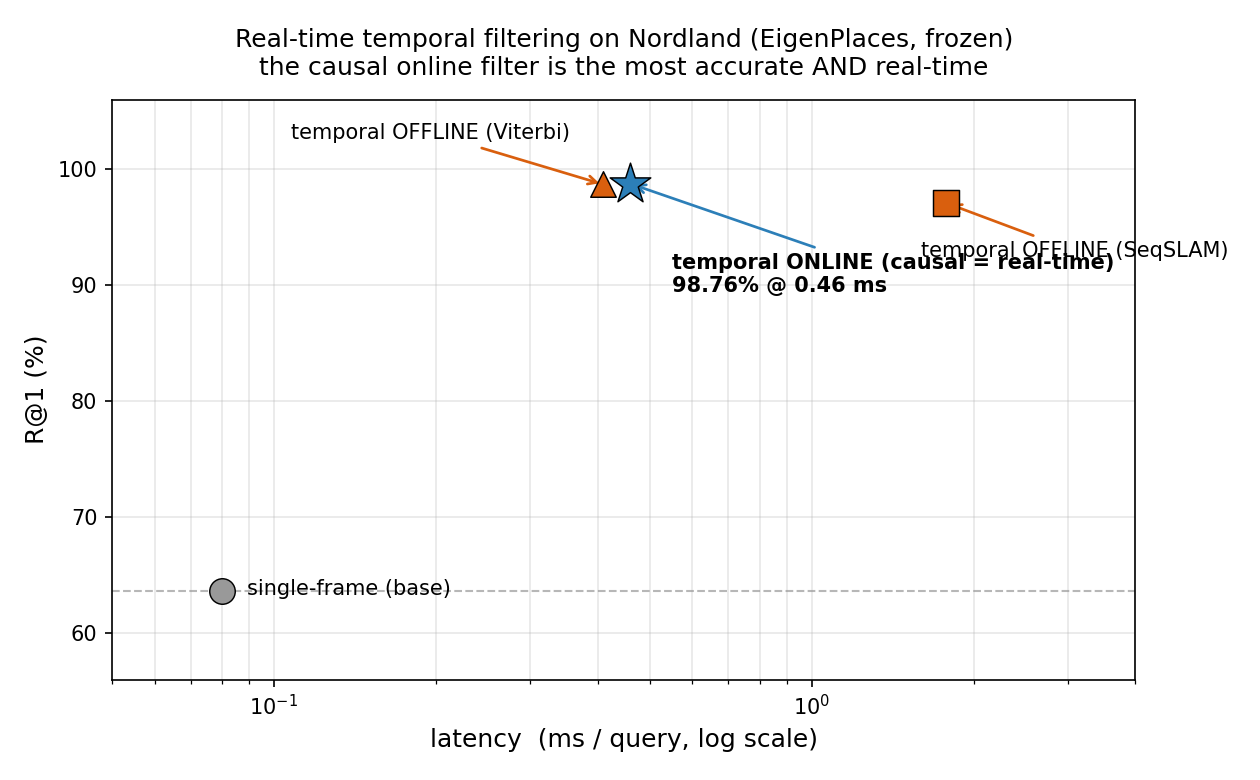
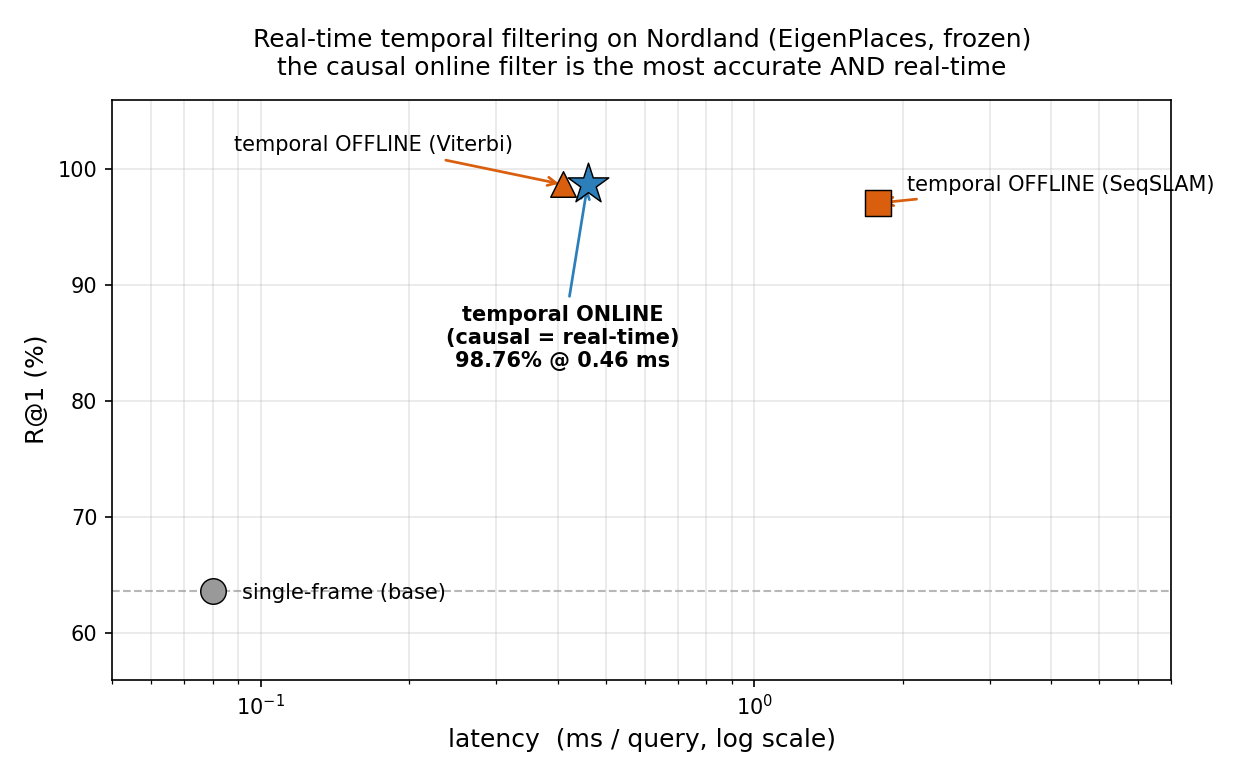
Fix overlapping labels in real-time accuracy-vs-latency figure

diff --git a/src/make_realtime_figures.py b/src/make_realtime_figures.py
@@ -18,10 +18,10 @@ BLUE, ORANGE, GREY, GREEN, RED = "#2c7fb8", "#d95f0e", "#999999", "#1a8a2e", "#c
 
 # --- 검증값 (전체 Nordland, EigenPlaces frozen): (이름, R@1, ms/q, 색, 마커, 라벨오프셋, 화살표) ---
 RT = [
-    ("single-frame (base)", 63.65, 0.08, GREY, "o", (12, -2), False),
-    ("temporal OFFLINE (SeqSLAM)", 97.09, 1.78, ORANGE, "s", (-12, -26), True),
-    ("temporal OFFLINE (Viterbi)", 98.69, 0.41, ORANGE, "^", (-150, 22), True),
-    ("temporal ONLINE (causal = real-time)\n98.76% @ 0.46 ms", 98.76, 0.46, BLUE, "*", (20, -52), True),
+    ("single-frame (base)", 63.65, 0.08, GREY, "o", (14, -4), False),
+    ("temporal OFFLINE (SeqSLAM)", 97.09, 1.78, ORANGE, "s", (14, 6), True),
+    ("temporal OFFLINE (Viterbi)", 98.69, 0.41, ORANGE, "^", (-158, 16), True),
+    ("temporal ONLINE\n(causal = real-time)\n98.76% @ 0.46 ms", 98.76, 0.46, BLUE, "*", (-12, -88), True),
 ]
 # --- 검증값 (동일 400장 부분집합): 기하만 vs 딥러닝 ---
 GEO_ONLY, GEO_TEMPORAL, DEEP, DEEP_TEMPORAL = 30.75, 89.25, 96.0, 100.0
@@ -34,10 +34,11 @@ def fig_accuracy_vs_latency():
         ax.scatter(ms, r1, s=420 if m == "*" else 150, c=c, marker=m, zorder=4,
                    edgecolor="k", linewidth=0.7)
         ax.annotate(name, (ms, r1), textcoords="offset points", xytext=off, fontsize=10,
+                    ha="center" if m == "*" else "left",
                     fontweight="bold" if m == "*" else "normal",
                     arrowprops=dict(arrowstyle="->", color=c, lw=1.3) if arrow else None)
     ax.axhline(63.65, color=GREY, ls="--", lw=1, alpha=0.7)
-    ax.set_xscale("log"); ax.set_xlim(0.05, 4); ax.set_ylim(56, 106)
+    ax.set_xscale("log"); ax.set_xlim(0.05, 7); ax.set_ylim(56, 106)
     ax.set_xlabel("latency  (ms / query, log scale)", fontsize=12)
     ax.set_ylabel("R@1 (%)", fontsize=12)
     ax.set_title("Real-time temporal filtering on Nordland (EigenPlaces, frozen)\n"